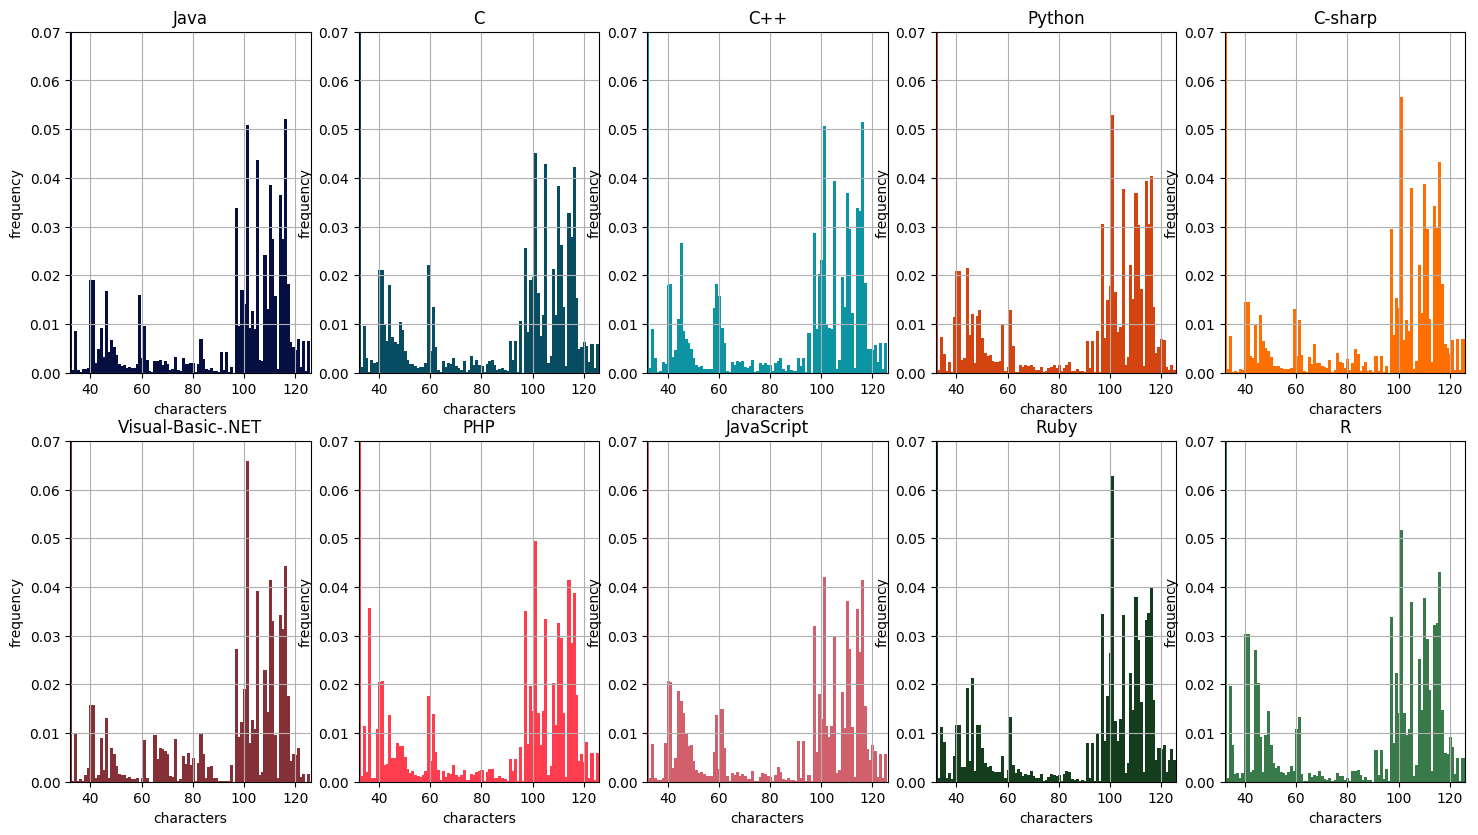
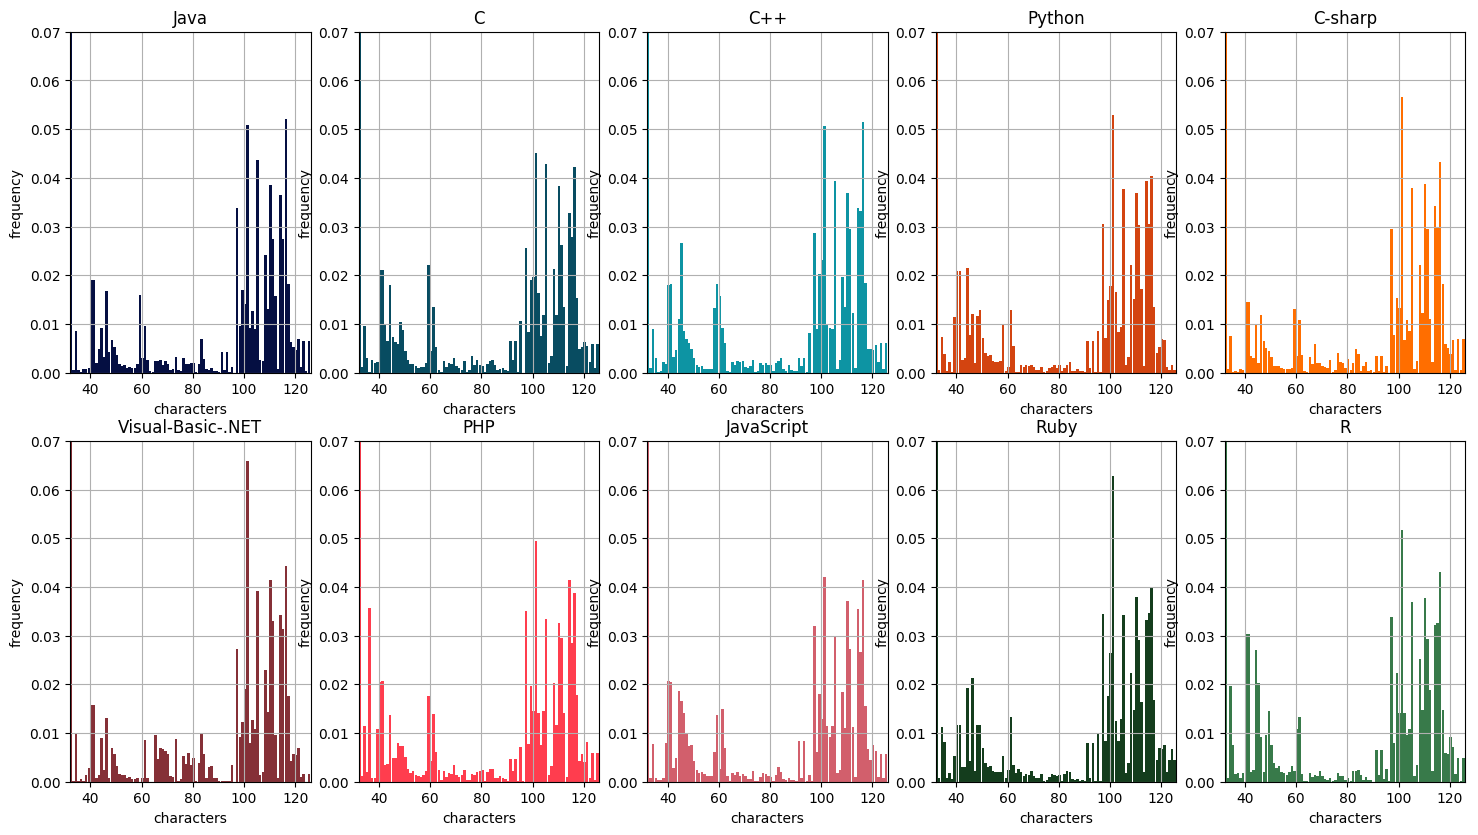
Properly scale frequency graph in document

Changed region(s): [[0.9337, 0.8096, 0.9648, 0.8407]]

diff --git a/essay.tex b/essay.tex
@@ -208,7 +208,7 @@ Instead, we will create input vectors by reading in $1000$-character strings of 
 
 From close observation of relative letter frequencies in our training data, some trends are notable:
 \begin{center}
-    \includegraphics{frequencies}
+    \makebox[\textwidth]{\includegraphics[width=\textwidth]{frequencies}}
 \end{center}
 
 To build our network, we chain together four layers. The first (input) layer, with 94 total neurons. This number is based off the range of ASCII characters we wish our to regard in making its decisions \cite{asciitable}. Characters before point 32 (Space) are used for various purposes such as connection maintenance and terminal life control and are not useful for identification of language. Range 32-126 inclusive contains punctuation, Western Arabic digits, and both uppercase and lowercase letters. While characters outside this range may appear in code from time to time, they are unlikely to be significant to the identity of a code document, and as such will be ignored.

diff --git a/code/data_graphs.py b/code/data_graphs.py
@@ -29,7 +29,7 @@ for lang_ind in range(NUM_LANGS):
     plt.xlim(TRACK_START, TRACK_END)
     plt.ylim(0, 0.07)
     plt.bar(x, rates, color=colors[lang_ind], align='edge')
-    plt.bar(x, rates, color=colors[lang_ind], align='center')
+    plt.bar(x, rates, color=colors[lang_ind], align='center', width=0.3)
     plt.xlabel('characters')
     plt.ylabel('frequency')
 
